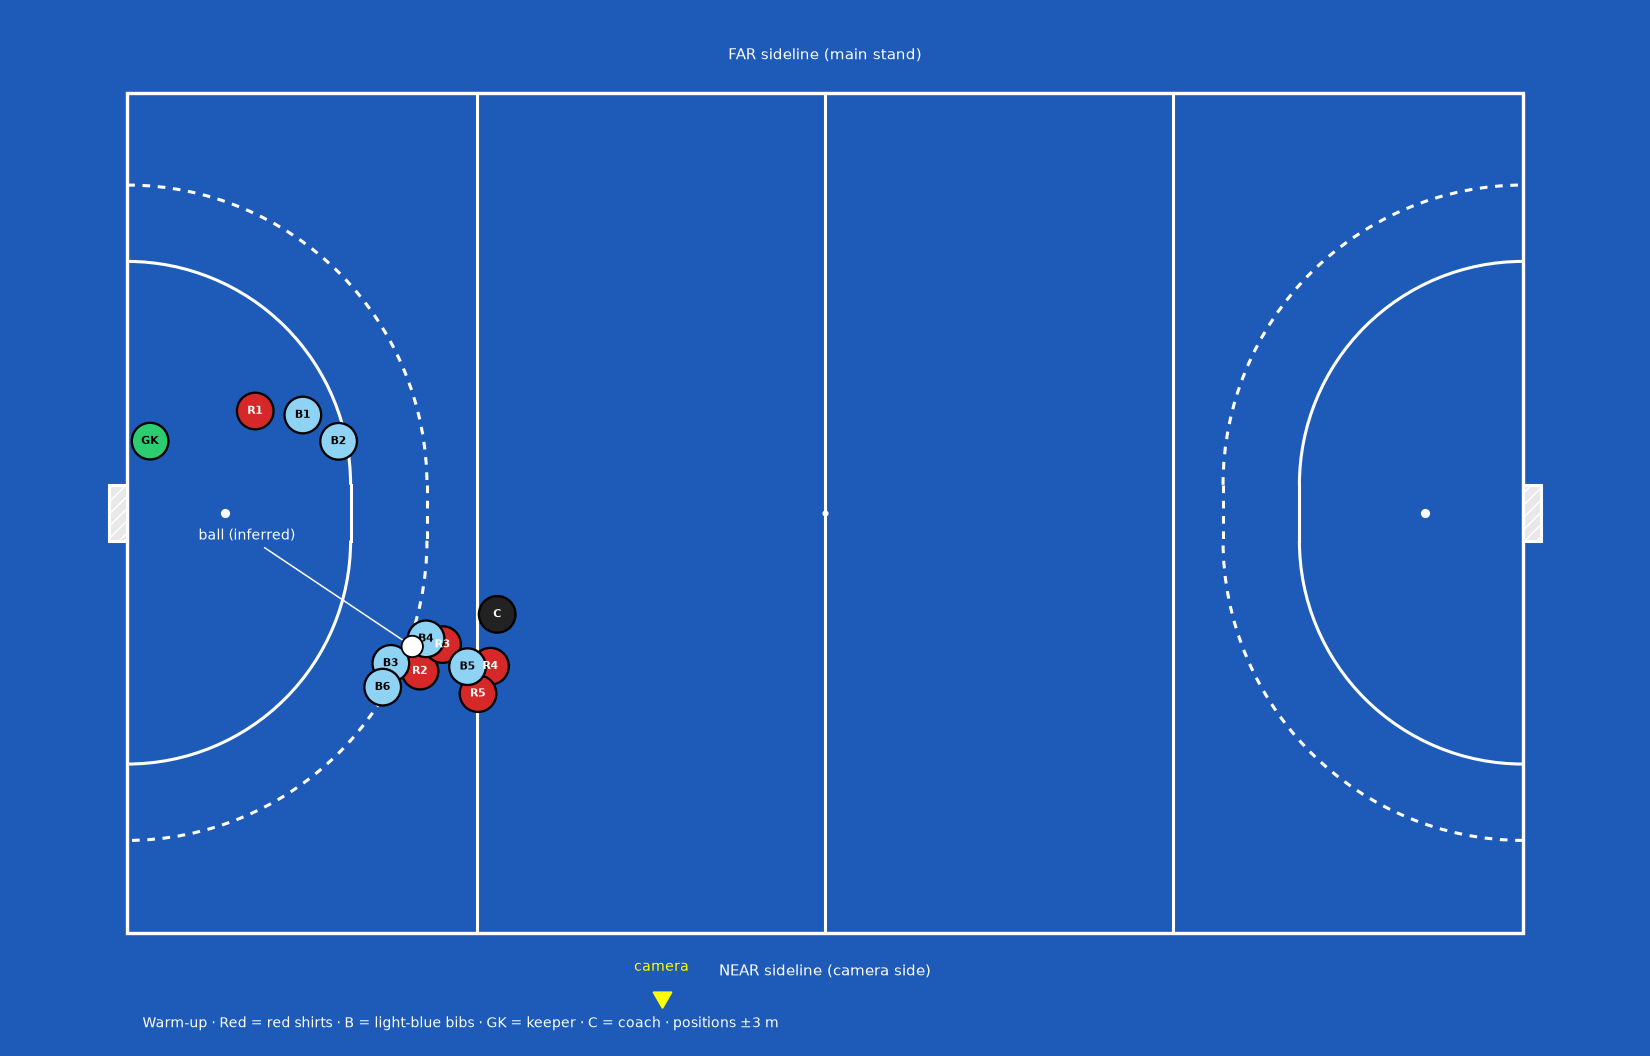
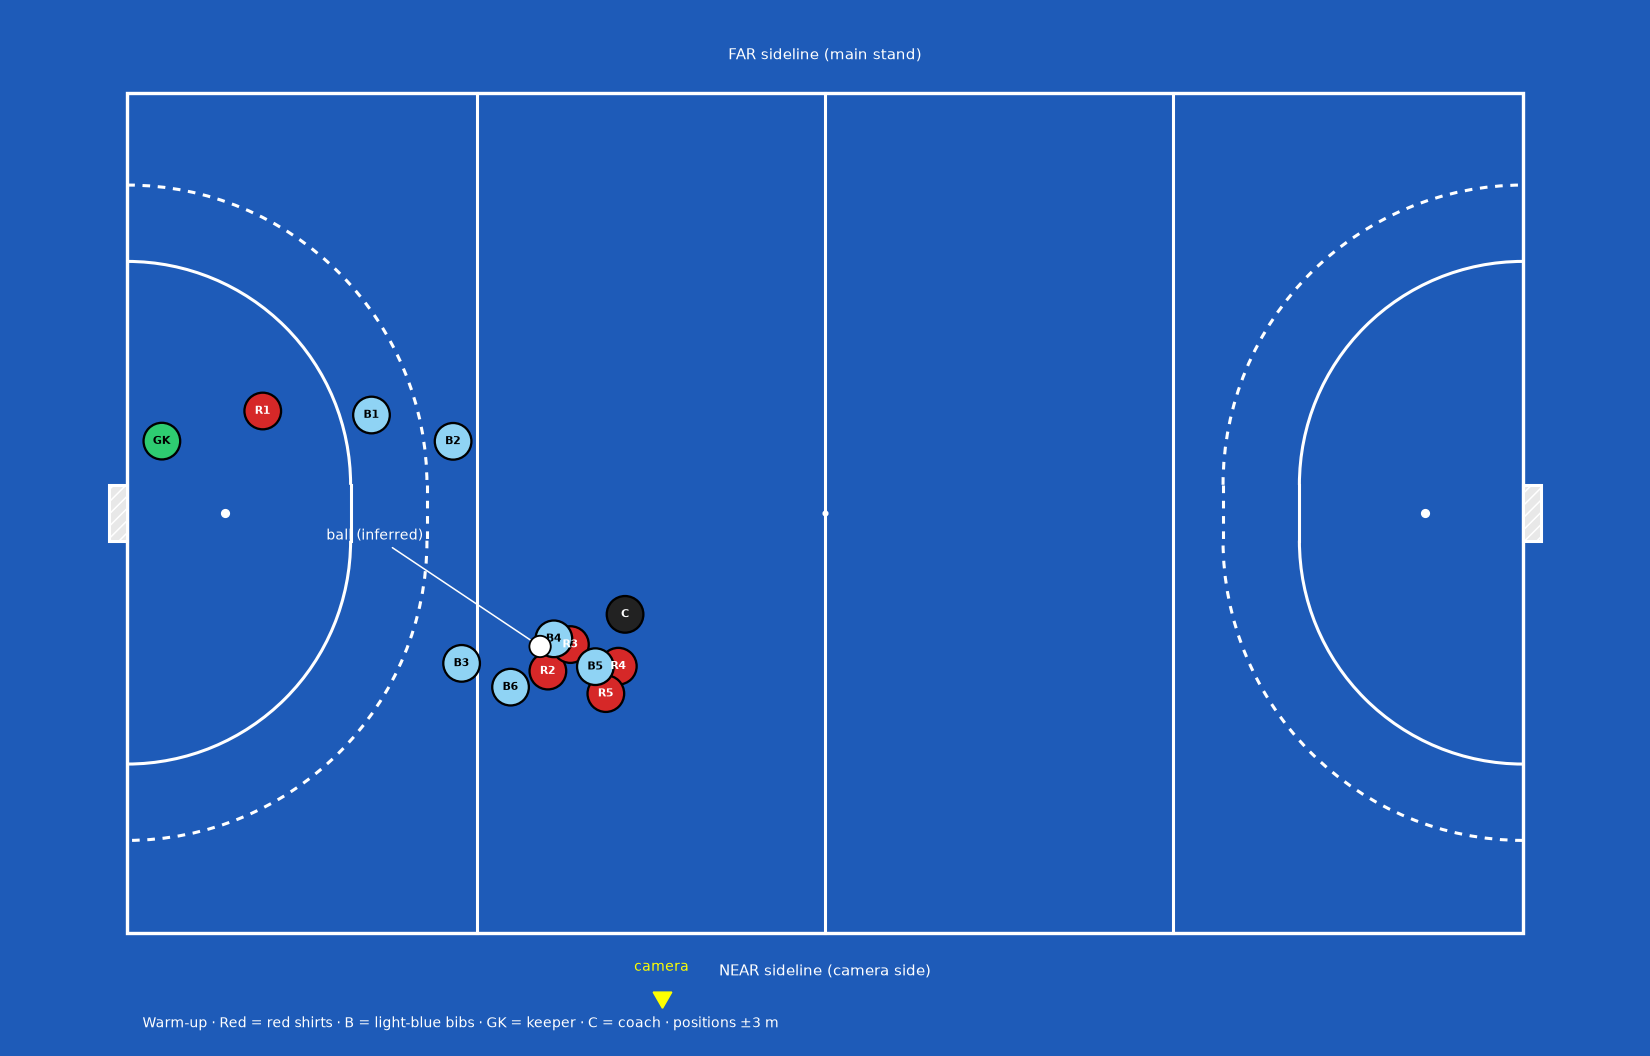
Warm-up scene: calibrate depth against the 23 m line
Only the keeper and four players sit between the backline and the 23 m
line; the drill group and coach stand just beyond it.

Claude-Session: https://claude.ai/code/session_01HhHHwvseAPNNu8owcNVDGq

diff --git a/app/astro-walk.html b/app/astro-walk.html
@@ -144,11 +144,11 @@
   let frames = [{name: "Frame 1", positions: copy(SCENES[sceneKey].positions), drawings: []}], cur = 0;
   const SCENES = {
     match:  {label: "Match · ESP v opponents (photo 1)", sub: "Paris 2024 · ESP in red · positions from the photo", positions: DEFAULT},
-    warmup: {label: "Warm-up · red v bibs (photo 2)", sub: "Paris 2024 warm-up · red shirts and light-blue bibs · from the photo", positions: {"R1": [8.4, 20.8], "R2": [19.2, 37.9], "R3": [20.7, 36.1], "R4": [23.8, 37.6], "R5": [23.0, 39.3], "B1": [11.5, 21.1], "B2": [13.8, 22.8], "B3": [17.3, 37.4], "B4": [19.6, 35.8], "B5": [22.3, 37.6], "B6": [16.7, 38.9], "GK": [1.5, 22.8], "COACH": [24.2, 34.2], "BALL": [18.7, 36.3]}}
+    warmup: {label: "Warm-up · red v bibs (photo 2)", sub: "Paris 2024 warm-up · red shirts and light-blue bibs · from the photo", positions: {"R1": [8.9, 20.8], "R2": [27.6, 37.9], "R3": [29.0, 36.1], "R4": [32.2, 37.6], "R5": [31.3, 39.3], "B1": [16.0, 21.1], "B2": [21.3, 22.8], "B3": [21.9, 37.4], "B4": [27.9, 35.8], "B5": [30.7, 37.6], "B6": [25.1, 38.9], "GK": [2.3, 22.8], "COACH": [32.6, 34.2], "BALL": [27.0, 36.3]}}
   };
   let sceneKey = "match";
   try { sceneKey = localStorage.getItem("astro-walk-scene") || "match"; if (!SCENES[sceneKey]) sceneKey = "match"; } catch (e) {}
-  const storeKey = () => "astro-walk-v2-" + sceneKey;
+  const storeKey = () => "astro-walk-v3-" + sceneKey;
   let positions, drawings;   // always point at the current frame's data
   function useFrame(i){ cur = Math.max(0, Math.min(frames.length - 1, i)); positions = frames[cur].positions; drawings = frames[cur].drawings; }
   const NAMES = {R:"Red", W:"White", B:"Bibs"};

diff --git a/app/index.html b/app/index.html
@@ -147,11 +147,11 @@
   let frames = [{name: "Frame 1", positions: copy(SCENES[sceneKey].positions), drawings: []}], cur = 0;
   const SCENES = {
     match:  {label: "Match · ESP v opponents (photo 1)", sub: "Paris 2024 · ESP in red · positions from the photo", positions: DEFAULT},
-    warmup: {label: "Warm-up · red v bibs (photo 2)", sub: "Paris 2024 warm-up · red shirts and light-blue bibs · from the photo", positions: {"R1": [8.4, 20.8], "R2": [19.2, 37.9], "R3": [20.7, 36.1], "R4": [23.8, 37.6], "R5": [23.0, 39.3], "B1": [11.5, 21.1], "B2": [13.8, 22.8], "B3": [17.3, 37.4], "B4": [19.6, 35.8], "B5": [22.3, 37.6], "B6": [16.7, 38.9], "GK": [1.5, 22.8], "COACH": [24.2, 34.2], "BALL": [18.7, 36.3]}}
+    warmup: {label: "Warm-up · red v bibs (photo 2)", sub: "Paris 2024 warm-up · red shirts and light-blue bibs · from the photo", positions: {"R1": [8.9, 20.8], "R2": [27.6, 37.9], "R3": [29.0, 36.1], "R4": [32.2, 37.6], "R5": [31.3, 39.3], "B1": [16.0, 21.1], "B2": [21.3, 22.8], "B3": [21.9, 37.4], "B4": [27.9, 35.8], "B5": [30.7, 37.6], "B6": [25.1, 38.9], "GK": [2.3, 22.8], "COACH": [32.6, 34.2], "BALL": [27.0, 36.3]}}
   };
   let sceneKey = "match";
   try { sceneKey = localStorage.getItem("astro-walk-scene") || "match"; if (!SCENES[sceneKey]) sceneKey = "match"; } catch (e) {}
-  const storeKey = () => "astro-walk-v2-" + sceneKey;
+  const storeKey = () => "astro-walk-v3-" + sceneKey;
   let positions, drawings;   // always point at the current frame's data
   function useFrame(i){ cur = Math.max(0, Math.min(frames.length - 1, i)); positions = frames[cur].positions; drawings = frames[cur].drawings; }
   const NAMES = {R:"Red", W:"White", B:"Bibs"};

diff --git a/analysis/warmup_topview.py b/analysis/warmup_topview.py
@@ -75,7 +75,27 @@ print("camera X=%.1f Y=%.1f Z=%.1f az=%.1f tilt=%.1f f=%.0f" % (prm[0],prm[1],pr
 for name, P in [("goal centre",[0,YC,0]),("pen spot",[PEN,YC,0]),("D apex",[R_D,YC,0]),("D far end",[0,YC-R_D-GOAL_W/2,0]),("dot apex",[R_DOT,YC,0]),("23m@far",[LINE_23,0,0])]:
     print("  %-10s -> px %s" % (name, np.round(project(np.array(P,float), prm)[0])))
 pos = {k: back(v, prm) for k, v in players.items()}
-pos["GK"] = (min(pos["GK"][0], 1.5), pos["GK"][1])
+# Along-pitch calibration from the photo: the long line under the drill group is
+# the 23 m line.  Only R1, B1, B2, B3 and the keeper are on the goal side of it;
+# the rest of the group and the coach stand just beyond it.  Map the model's X
+# so that line lands at 22.90 m while the goal line stays put.
+line_pts = [(170, 690), (600, 645), (890, 625), (1300, 583)]
+x_line = np.mean([back(q, prm)[0] for q in line_pts])
+print("model X of the 23 m line = %.1f -> rescaled to 22.90" % x_line)
+# The model is right around the circle (arc start / apex match the photo) but
+# compresses depth toward the camera, so shift only the region beyond the circle.
+shift = LINE_23 - x_line
+def fix_x(x):
+    if x <= 8: return x
+    if x >= x_line: return x + shift
+    return x + shift * (x - 8) / (x_line - 8)
+pos = {k: (fix_x(x), y) for k, (x, y) in pos.items()}
+inside = {"R1", "B1", "B2", "B3", "GK"}
+for k in pos:
+    x, y = pos[k]
+    if k in inside: pos[k] = (min(x, LINE_23 - 1.0), y)
+    elif k != "BALL": pos[k] = (max(x, LINE_23 + 0.8), y)
+pos["BALL"] = (max(pos["BALL"][0], LINE_23 + 0.5), pos["BALL"][1])
 for k,(x,y) in pos.items(): print("%-5s X=%5.1f Y=%5.1f" % (k,x,y))
 json.dump({"camera":{"X":prm[0],"Y":prm[1],"Z":prm[2],"azimuth_deg":np.degrees(prm[3]),"tilt_deg":np.degrees(prm[4]),"focal_px":prm[5]},
            "positions_m":pos,"pixels":players}, open("analysis/positions_warmup.json","w"), indent=2)
